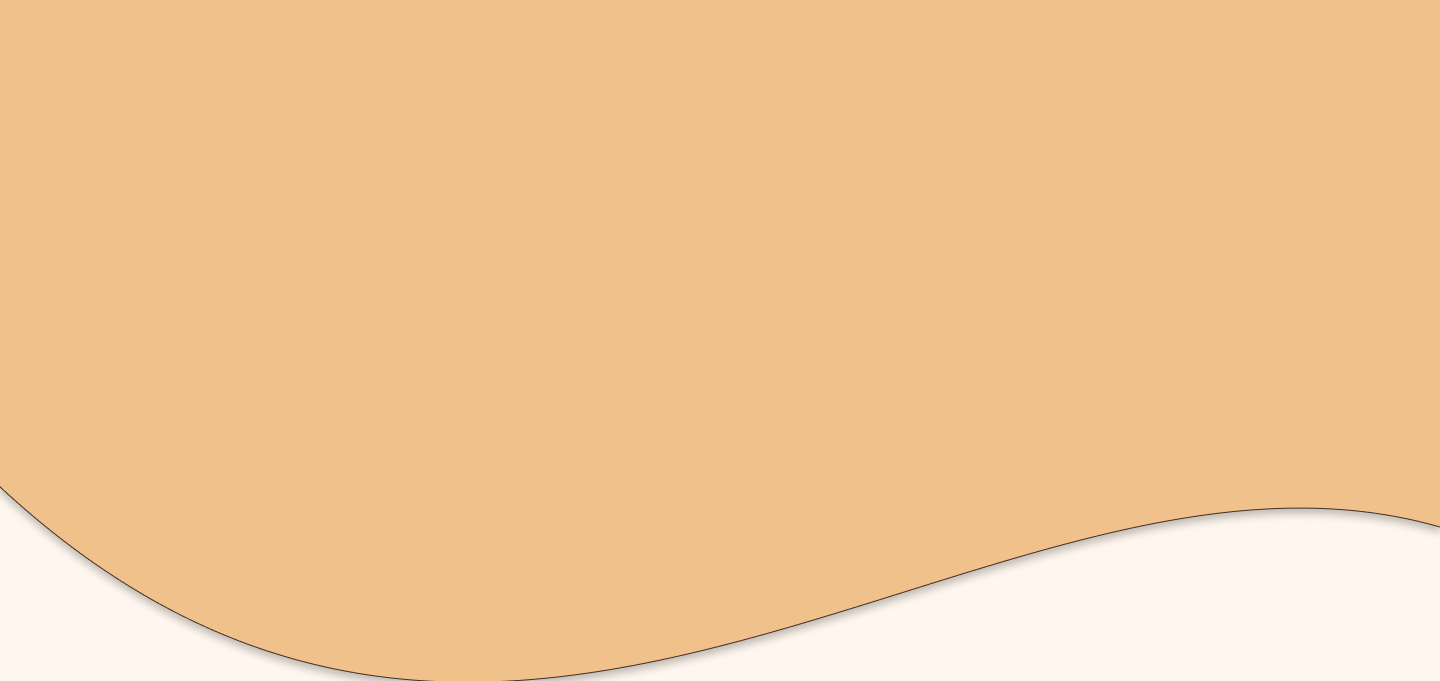
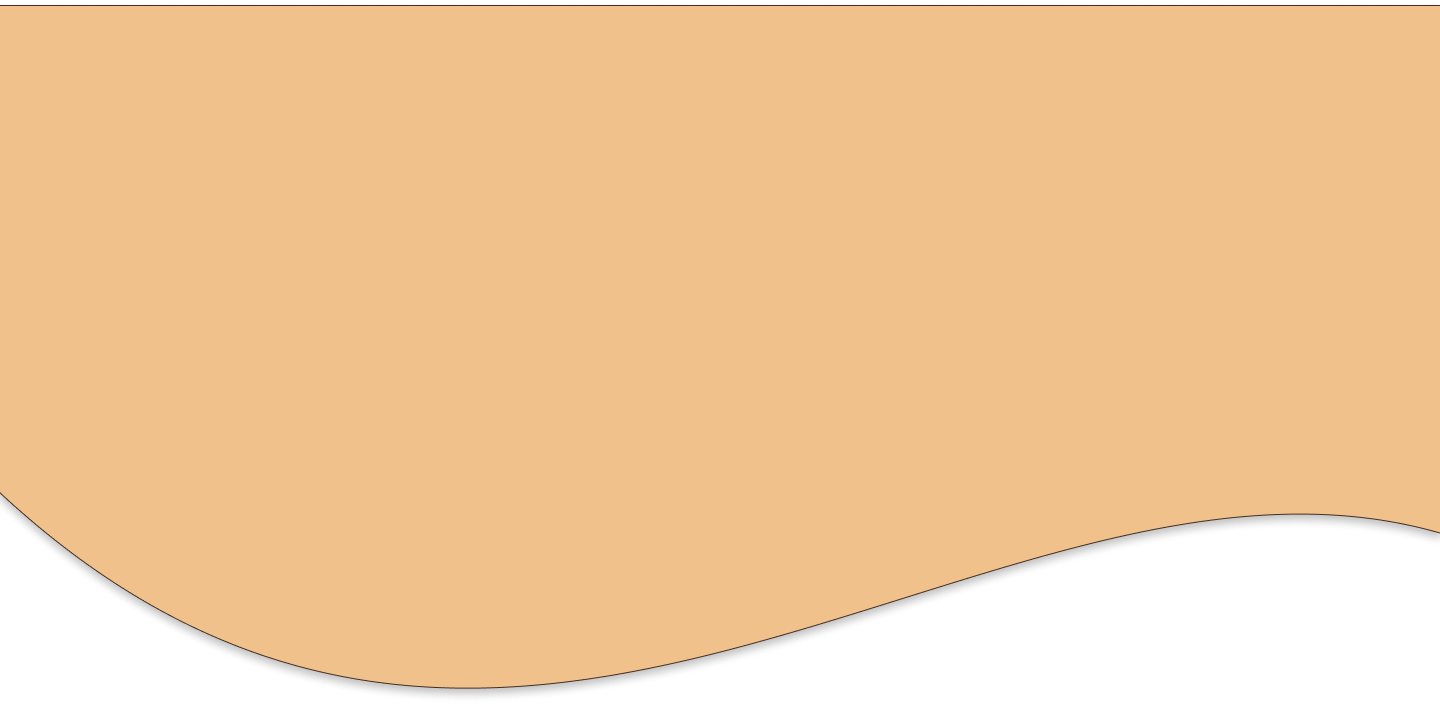
veveve

Changed region(s): [[0.0312, 0.7093, 1.0, 1.0], [0.0, 0.0, 1.0, 0.0308], [0.0, 0.7093, 0.0312, 0.7709]]

diff --git a/my_web/style.css b/my_web/style.css
@@ -23,6 +23,20 @@
         display: none;
     }
 
+    #cookieMainS{
+    height: 68.2rem;
+    width: 144rem;
+
+    }
+
+    #cookieInfoS{
+    width: 144rem;
+    }
+
+    #productVector{
+    width: 144rem;
+}
+
     
 
 
@@ -137,9 +151,15 @@
     }
 
 
+
 }
 
+@media only screen and (min-width: 720px){
+    .ignoreMix {
+    right: 60rem;
+    }
 
+}
 
 @media only screen and (min-width: 960px) and (max-width: 1140px){
     html{
@@ -207,6 +227,18 @@
         width: 100vw;
     }
 
+    .ignoreMix {
+    right: 80rem;
+    }
+
+    #cookieInfoS{
+    width: 144rem;
+    }
+
+    #productVector{
+    width: 144rem;
+}
+
 
   
 
@@ -249,6 +281,10 @@
     z-index: 1000;  
     }
 
+    h4 {
+    font-size: 2rem;
+    }
+
 
 }
 
@@ -274,6 +310,15 @@
     html{
         width: 720px;
     }
+
+    #cookieInfoS{
+     width: 720px;
+    }
+
+    #productVector{
+    width: 720px;
+    }
+
 
 
 }
@@ -712,7 +757,6 @@ transition: all 0.3s ease;
     height: 55.9rem;
     width: 55.9rem;
     position: absolute;
-    right: 60rem;
     bottom: 0rem;
     }
 
@@ -847,8 +891,7 @@ input[type="email"]{
     background-size: cover;
     background-repeat: no-repeat;
     background-position: center;
-    height: 682px;
-    width: 1440px;
+    height: 68.2rem;
 }
 
 
@@ -869,7 +912,6 @@ input[type="email"]{
     padding: 1rem 2rem;
     border-radius: 2.4rem;
     border: #432E22 solid 0.2rem;
-    cursor: pointer; 
 }
 #cookiePage button[type="submit"]:hover{
     transition: all 0.3s ease;
@@ -912,12 +954,12 @@ input[type="email"]{
     display: flex;
     flex-direction: row;
     justify-content: flex-start;
-    gap:4rem;
+    gap: 4rem;
 }
 
 #cookieInfoS{
-    width: 1172px;
     background-color: #FFF7EF;
+
 }
 .cookieInfo{
     display: flex;
@@ -927,6 +969,7 @@ input[type="email"]{
     font-family: Roboto Slab;
     font-size: 1.6rem;
     margin: 4rem 0rem;
+    padding: 0px 5rem;
 
 }
 #contains{
@@ -978,6 +1021,8 @@ input[type="email"]{
   font-size: 2rem;
   font-family: "Inria Serif";
 }
+
+
 
 
 .prev, .next {
@@ -1041,8 +1086,8 @@ input[type="email"]{
 
 .quantity-counter button {
     border: none;
-    padding: 5px 10px;
-    font-size: 20px;
+    padding: 0.5rem 1rem;
+    font-size: 2rem;
     cursor: pointer;
     background-color: transparent;
 }

diff --git a/my_web/product.php b/my_web/product.php
@@ -46,7 +46,7 @@ if (isset($_GET['pieces'])) {
                     </button>
                 </div>
 
-                
+
                 <div class="price-form">
                     <h4><?php echo ($pieces == 12) 
                         ? $product["price12"] 
@@ -109,6 +109,6 @@ if (isset($_GET['pieces'])) {
 </main>
 
 <footer>
-    <img src="images/vector5.png" alt="Footer decoration">
+    <img src="images/vector5.png" id="productVector">
     <?php include("footer.php") ?>
 </footer>
